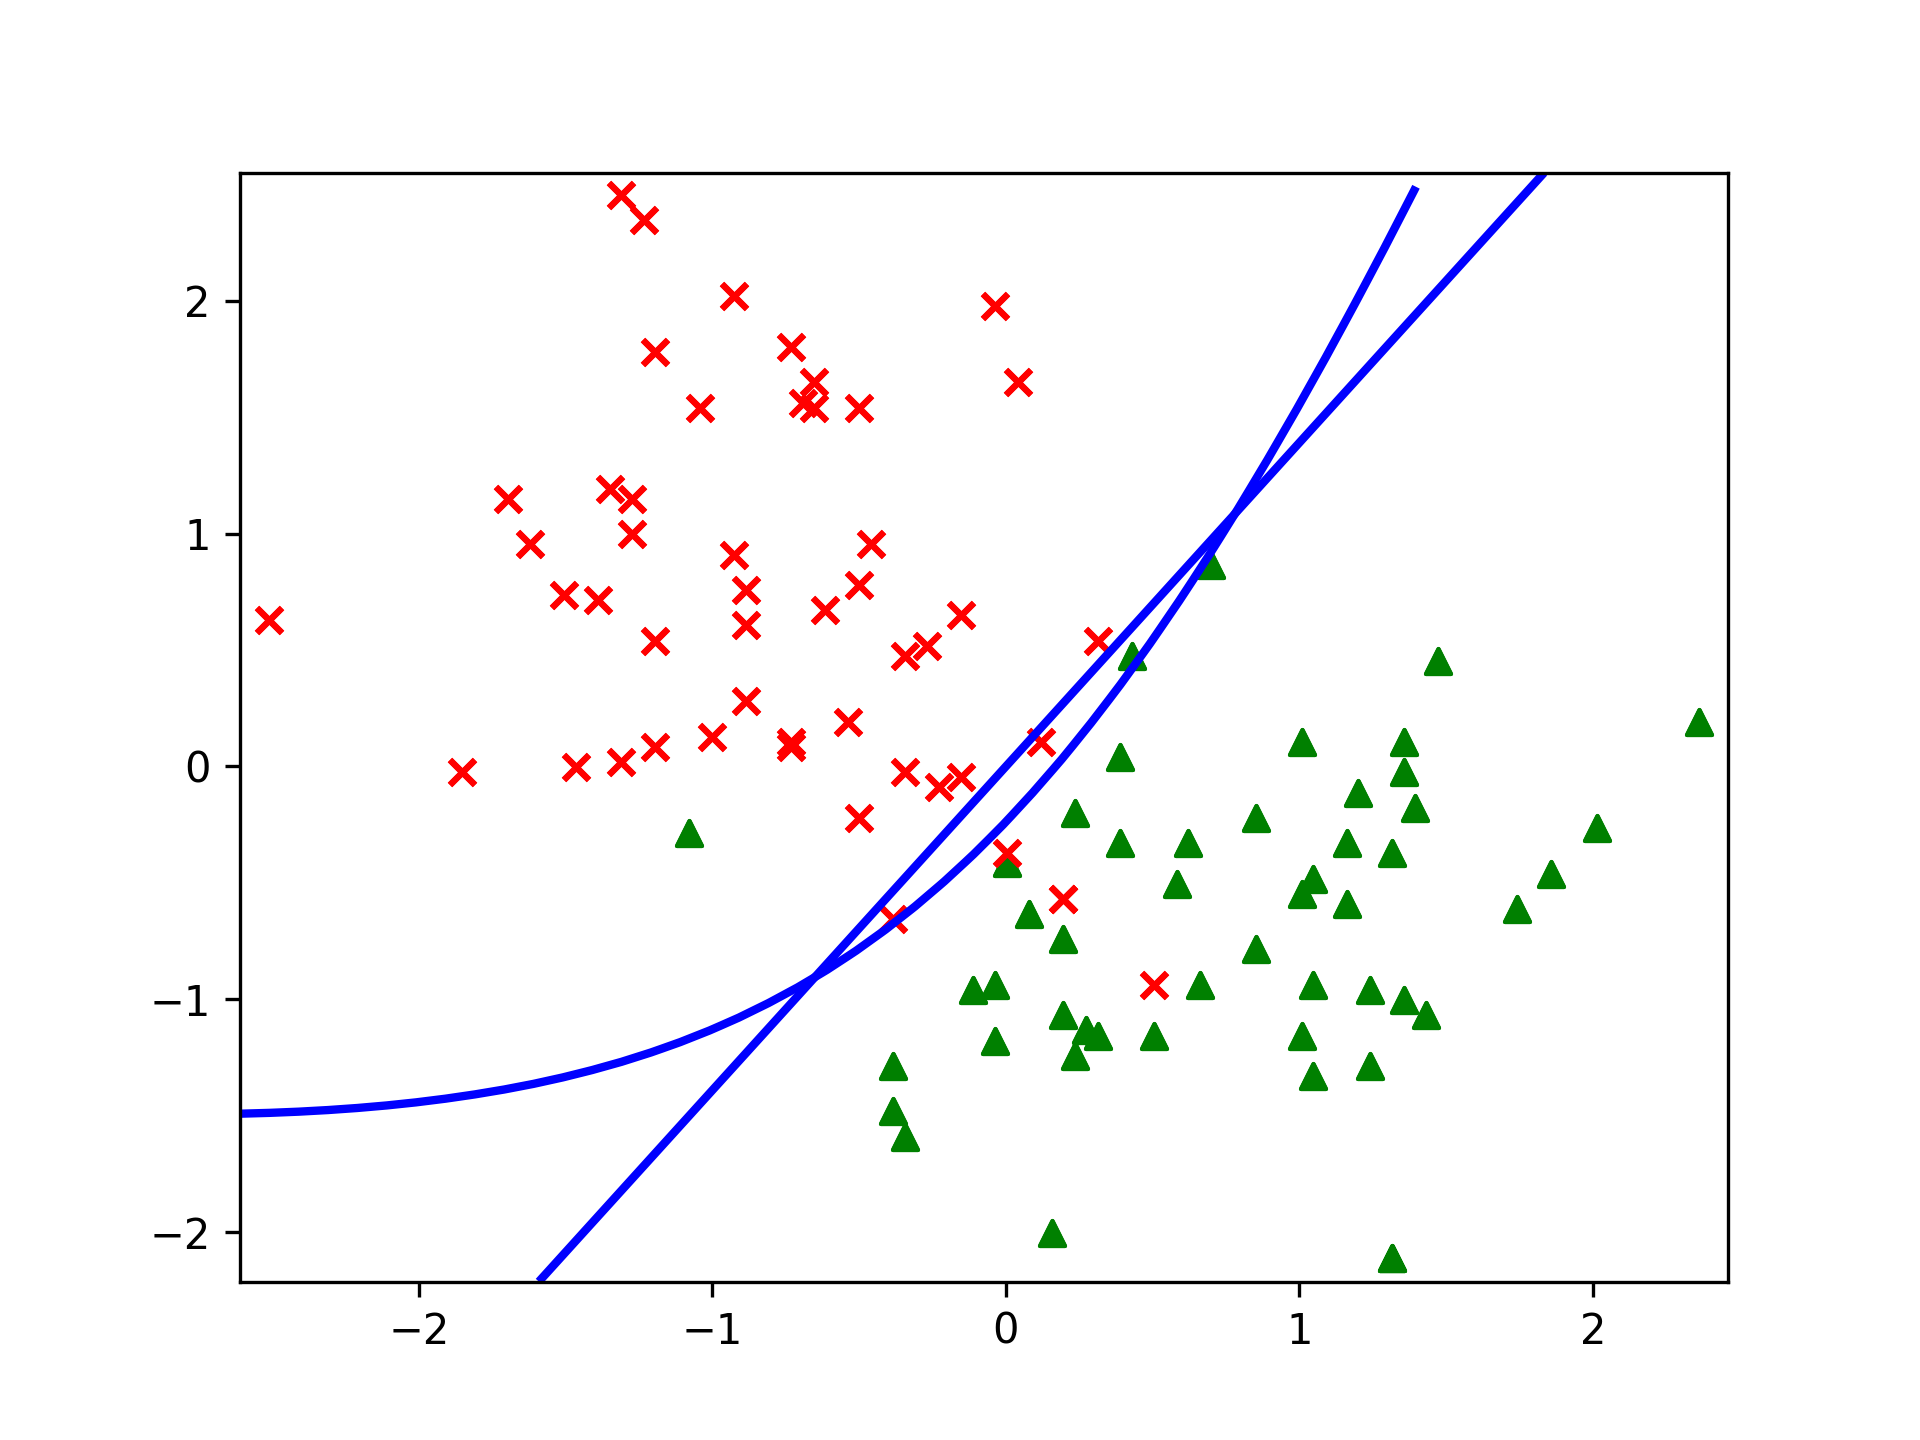
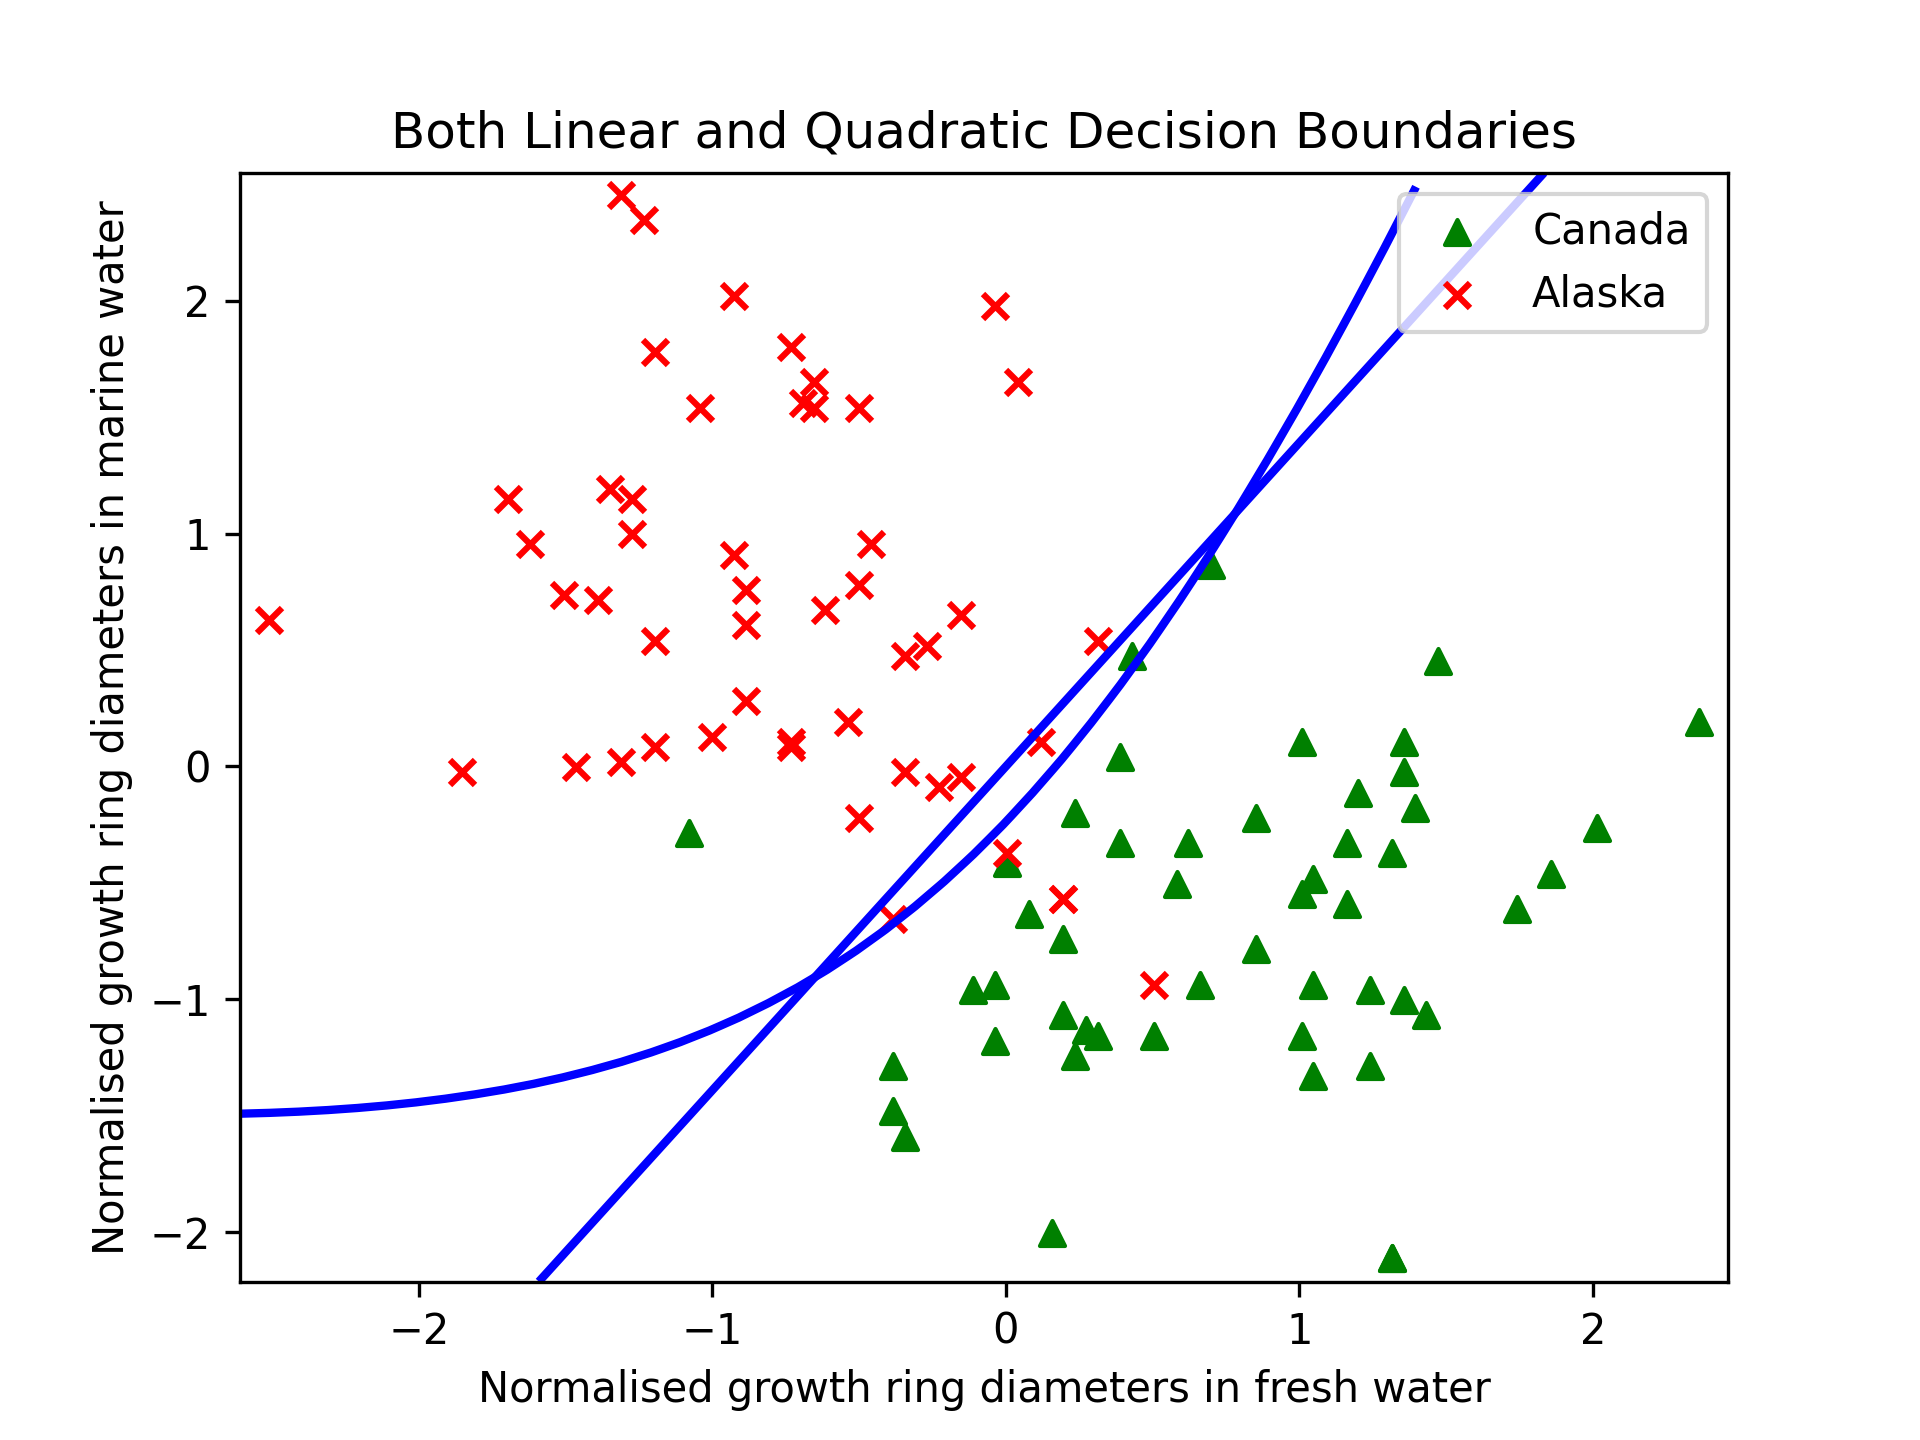
update assgn1 readme and add plots

diff --git a/assignment1/Readme.md b/assignment1/Readme.md
@@ -12,6 +12,30 @@ Further detailed analysis of the algorithm for different step sizes (or learning
 
 ### Stochastic Gradient Descent
 
+Implementing stochastic gradient descent for learning in datasets of larger magnitudes. Experimentation with different batch sizes, and comparing the learning process qualitatively (smootheness of loss) and quantitatively (difference in losses, time for convergence).
+
+<p align="center">
+    <img src="./Q2/plots/sgd_loss_batch_1.png" width="300"/> 
+    <img src="./Q2/plots/sgd_loss_batch_100.png" width="300"/> 
+    <img src="./Q2/plots/sgd_loss_batch_10000.png" width="300"/> 
+    <br>Variation of training loss for batch sizes 1, 100 and 10000.
+</p>
+
+
 ### Newton's Method | Logistic Regression
 
+Implementing Newton's Method to optimise a logistic regression task. Train a Logistic regression model to get a linear decision boundary for the given data. Computes the hessian of the logistic loss as required by the update in Newton's method.
+
+<p align="center">
+    <img src="./Q3/plots/decision_boundary.png" width="300"/> 
+</p>
+
 ### Gaussian Discriminant Analysis
+
+Implementing GDA for classification. Work with two variants, one with assumption that the two classes have same variance, while the other a general case. Visualise the linear and quadratic decision boundaries obtained in the two variants and qualitatively compare them. 
+
+<p align="center">
+    <img src="./Q4/plots/gda_linear.png" width="300"/> 
+    <img src="./Q4/plots/gda_both.png" width="300"/> 
+    <img src="./Q4/plots/gda_quadratic.png" width="300"/> 
+</p>
